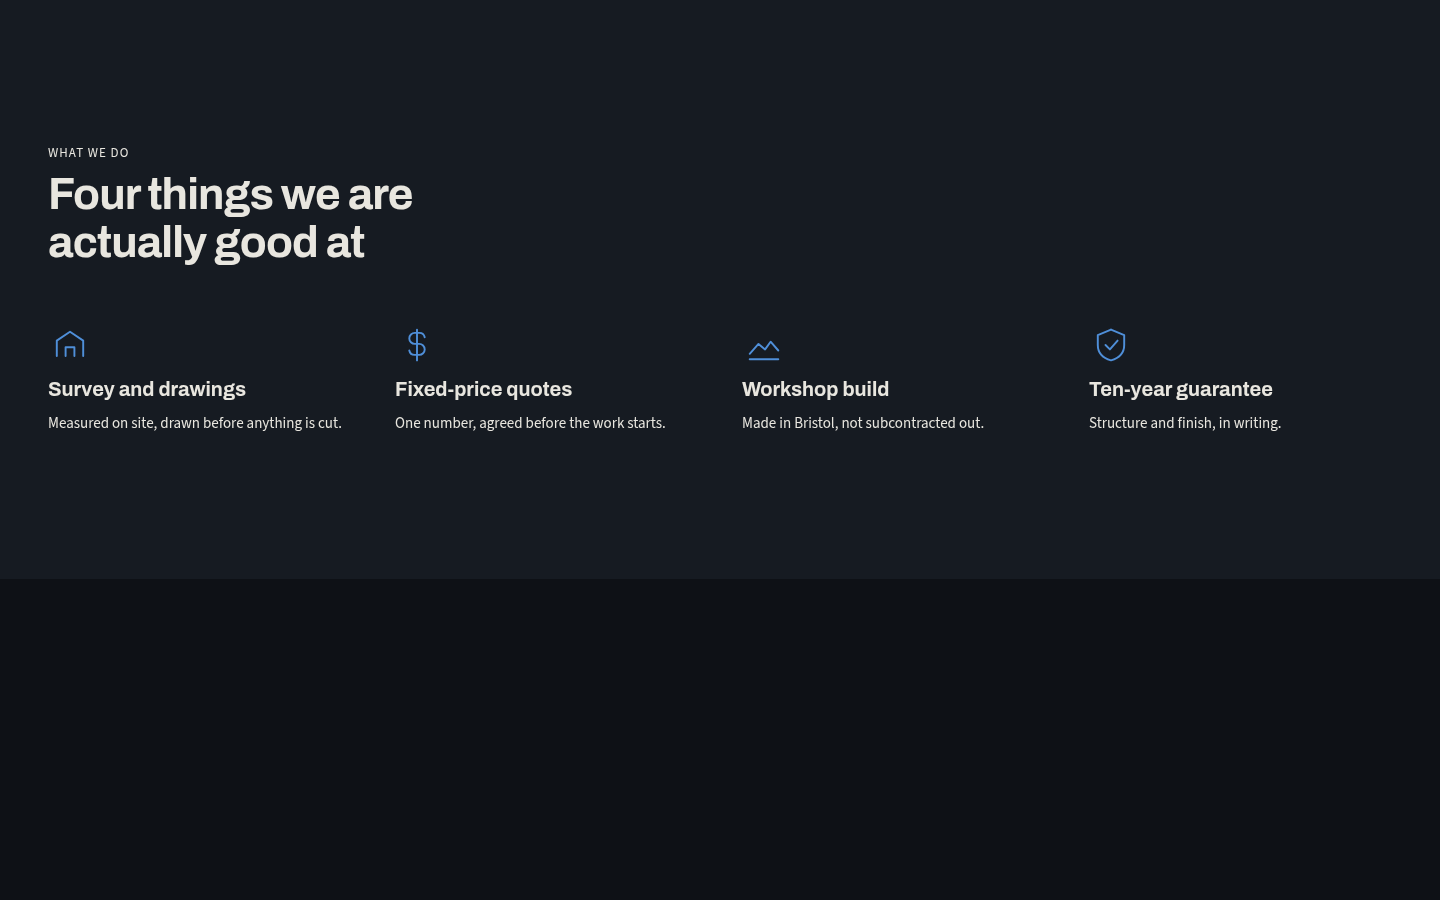
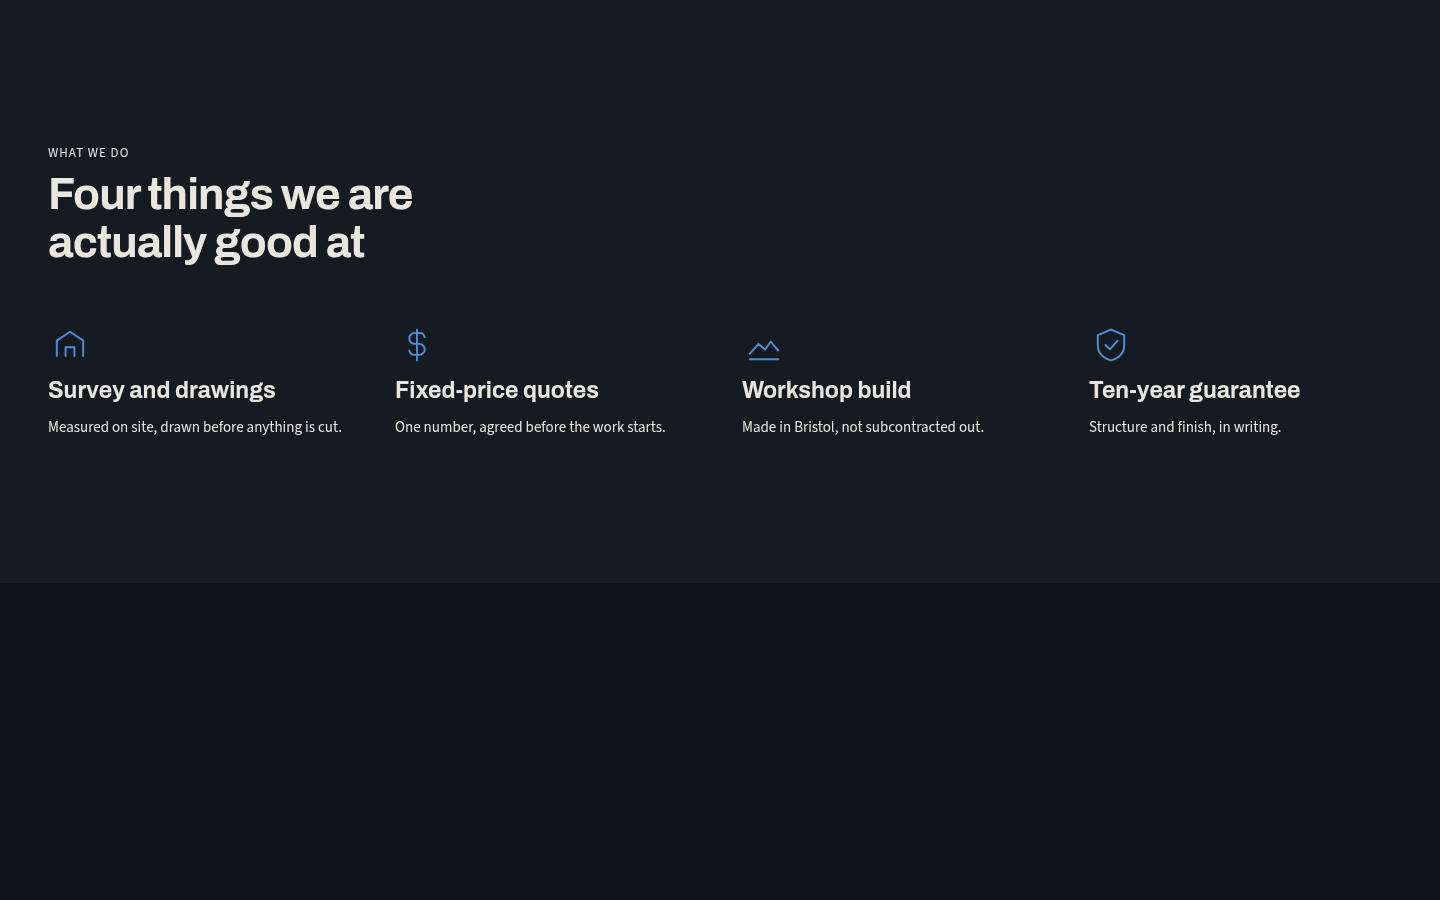
fix(wp-demo-craft): footer-columns flattened the type scale on every page
A live defect in shipped code, found by a build that assumed its own heading was
the cause and grepped instead of guessing.

footer-columns used <h2> for its three column labels at 0.8rem. A heading element
is a role, not a size: 12.8px entered the h2 role on every page of every craft
build, so the measured ladder was flat site-wide no matter how well proportioned
the real section headings were. The reported finding was `h2 12.8px, body 15.5px,
h3 17.3px` -- and the h2 in it was a footer, breaking a section that was correct.

The three labels are <p> now. The two nav columns already carried aria-label, so
nothing was lost; the contact column gains role="group" with its own label.

Enforced structurally rather than by prose: no heading in any composition may be
sized below 1.1rem at the small end of its clamp. That check found one more --
icon-row__name, mine, at 1.0625rem against a 0.9375rem note, which is 1.13x and
below the ratio floor this same commit writes down. Raised to 1.1875rem, 1.27x.
Verified by restoring the footer h2s and watching the check fail.

taste.md gains three rules:

- A heading element is a role, not a size. If it needs to look like a label it is
  a <p>, named with aria-label on its region.
- A component heading clears at least 1.25x over body at the size it actually
  renders, not at its token's nominal value. At 1.12x it reads as bold body text
  and measures as a flat scale.
[…]

diff --git a/skills/wp-demo-craft/compositions/footer-columns/section.html b/skills/wp-demo-craft/compositions/footer-columns/section.html
@@ -7,7 +7,7 @@
       <p class="footer-columns__blurb">{{blurb}}</p>
     </div>
     <nav class="footer-columns__col" aria-label="{{nav_1_label}}">
-      <h2 class="footer-columns__col-title">{{nav_1_label}}</h2>
+      <p class="footer-columns__col-title">{{nav_1_label}}</p>
       <ul class="footer-columns__links">
         <li><a class="footer-columns__link" href="{{nav_1_href_1}}">{{nav_1_link_1}}</a></li>
         <li><a class="footer-columns__link" href="{{nav_1_href_2}}">{{nav_1_link_2}}</a></li>
@@ -16,7 +16,7 @@
       </ul>
     </nav>
     <nav class="footer-columns__col" aria-label="{{nav_2_label}}">
-      <h2 class="footer-columns__col-title">{{nav_2_label}}</h2>
+      <p class="footer-columns__col-title">{{nav_2_label}}</p>
       <ul class="footer-columns__links">
         <li><a class="footer-columns__link" href="{{nav_2_href_1}}">{{nav_2_link_1}}</a></li>
         <li><a class="footer-columns__link" href="{{nav_2_href_2}}">{{nav_2_link_2}}</a></li>
@@ -24,8 +24,8 @@
         <li><a class="footer-columns__link" href="{{nav_2_href_4}}">{{nav_2_link_4}}</a></li>
       </ul>
     </nav>
-    <div class="footer-columns__col footer-columns__col--contact">
-      <h2 class="footer-columns__col-title">{{contact_label}}</h2>
+    <div class="footer-columns__col footer-columns__col--contact" role="group" aria-label="{{contact_label}}">
+      <p class="footer-columns__col-title">{{contact_label}}</p>
       <address class="footer-columns__address">
         <span class="footer-columns__line">{{address_line}}</span>
         <a class="footer-columns__link" href="tel:{{phone_href}}">{{phone}}</a>

diff --git a/skills/wp-demo-craft/compositions/footer-columns/section.css b/skills/wp-demo-craft/compositions/footer-columns/section.css
@@ -42,6 +42,13 @@
   max-width: 34ch;
   margin: 0;
 }
+/* A <p>, not an <h2>. Three column labels at 0.8rem used to be headings, which put
+   the h2 role at 12.8px on every page of every craft build -- so the measured type
+   ladder was flat site-wide no matter how well-proportioned the real section
+   headings were, and correctly-sized components elsewhere tripped
+   `flat-type-hierarchy` because of a footer. The two nav columns already carry
+   `aria-label`, so nothing was lost by demoting them; see ../../references/taste.md
+   on heading roles. */
 .footer-columns__col-title {
   font: 500 0.8rem/1.2 var(--font-text);
   letter-spacing: 0.08em;

diff --git a/skills/wp-demo-craft/compositions/icon-row/section.css b/skills/wp-demo-craft/compositions/icon-row/section.css
@@ -50,7 +50,9 @@
 .icon-row__name {
   margin: 0;
   font-family: var(--font-display);
-  font-size: clamp(1.0625rem, 1.6cqi, 1.25rem);
+  /* 1.1875rem against the 0.9375rem note is 1.27x, clearing the 1.25x floor in
+     references/taste.md. At 1.0625rem it was 1.13x and read as bold body text. */
+  font-size: clamp(1.1875rem, 1.8cqi, 1.4375rem);
   line-height: 1.25;
 }
 .icon-row__note {

diff --git a/skills/wp-demo-craft/references/taste.md b/skills/wp-demo-craft/references/taste.md
@@ -52,6 +52,17 @@ render, not the number.
   eyebrow had no way to find the safe side except by trial, because the number was
   written nowhere. It is written here now: stay at or below `0.1em`, and prefer copying
   `page-head`'s kicker rule to inventing one.
+- **A heading element is a role, not a size — never use one as a small label.**
+  An `<h2>` styled at 0.8rem does not read as small print to the type scale; it
+  enters the h2 role and flattens the measured ladder for the **whole page**,
+  including sections that are perfectly proportioned. A real build tripped
+  `flat-type-hierarchy` with `h2 12.8px, body 15.5px, h3 17.3px` — and the 12.8px
+  was three column labels in the footer, on every page. If it needs to look like a
+  label, it is a `<p>`; give the region its name with `aria-label` instead.
+- **A component heading clears at least 1.25× over body at its own size.** A
+  trimmed heading that lands at 1.12× reads as bold body text and measures as a
+  flat scale. Check the ratio at the size it actually renders, not at the token's
+  nominal value.
 - **Tracking tightens as size grows.** A typeface set at 6rem with default
   tracking reads loose and amateur. A ramp handles this: `--font-track-tight`
   on display, `--font-track-normal` on body. This is optical correction, not
@@ -297,6 +308,20 @@ fast.
   A fact published about the sector — a score range and its bands, a statutory
   timescale, a standard fee structure — is not an invented statistic. It is the
   subject. Draw it.
+- **Cut inside the sentence, not at its pivot.** Told to reduce text, the
+  tempting cut is the one that leaves a contrast: *"We are not a law firm. We do
+  not give legal advice — the application of the law to your circumstances. For
+  that, consult an attorney."* becomes *"Not a law firm. No legal advice. For
+  that, see an attorney."* That removes almost no information; what it removes is
+  the sentence, leaving a manufactured aphorism. Three of those in one section is
+  a **cadence**, and `impeccable detect` names it. Drop modifiers, subordinate
+  clauses and hedges; keep the subject and the verb.
+
+  **The bold-lead-in list format invites this specifically.** `<b>Lead.</b> Rest
+  of the sentence.` makes the lead a natural fragment, so one trim pass turns
+  every row into an aphorism at once — the defect arrives as a set, not as a
+  single line. Any composition shaped that way carries the risk with it, and a
+  "less text" pass over one is the moment to vary sentence length deliberately.
 - Real copy, not lorem. Real names, not "John Doe". Real numbers or no
   numbers.
 - **No invented statistics.** Fake precision (`4.1×`, `92%`, `48k`) is a

diff --git a/CHANGELOG.md b/CHANGELOG.md
@@ -4,6 +4,22 @@
 
 ### Fixed
 
+- **`footer-columns` flattened the measured type scale on every page.** It used `<h2>`
+  for three column labels at `0.8rem`, and a heading element is a role rather than a
+  size: 12.8px entered the h2 role on every page of every craft build, so correctly
+  proportioned sections elsewhere tripped `flat-type-hierarchy` because of a footer. The
+  labels are `<p>` now, with `aria-label` carrying the accessible names. A structural
+  check refuses any heading sized below `1.1rem`, and it caught one more on the way in:
+  `icon-row__name` at 1.13x over its body text, since raised to 1.27x.
+
+  `taste.md` gains the rules behind it — a heading element is a role not a size, a
+  component heading clears 1.25x over body at the size it renders, and **cut inside the
+  sentence, not at its pivot**: trimming at the pivot removes almost no information while
+  converting a sentence into a manufactured aphorism, and three in a section is a cadence
+  the detector names. The bold-lead-in list format produces them as a set.
+
+### Fixed
+
 - **A recorded client brief had no authority over the craft defaults, and the defaults
   won.** `/wp-context` writes the client's own direction into the project's
   `.claude/CLAUDE.md`; on one project that direction was explicit — *"an impactful
